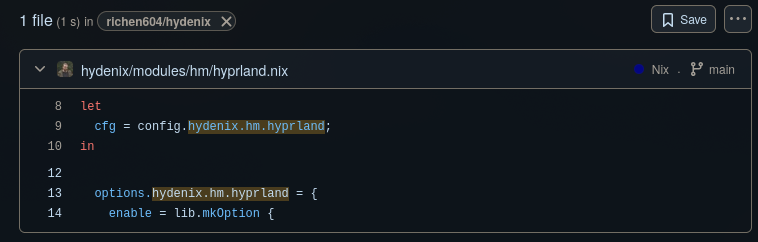
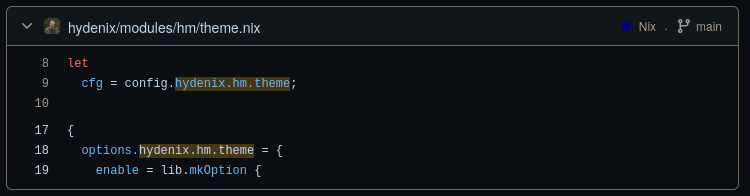
docs: options.md use hydenix.hm.theme example

diff --git a/template/docs/options.md b/template/docs/options.md
@@ -1,4 +1,3 @@
-
 <img align="right" width="75px" alt="NixOS" src="https://github.com/HyDE-Project/HyDE/blob/master/Source/assets/nixos.png?raw=true"/>
 
 # hydenix options
@@ -11,10 +10,10 @@
 ## module documentation
 
 going to let you in on a secret: the nix options system *is* the documentation.\
-let's walk through an example. say you want to find info about `hydenix.hm.hyprland`.\
+let's walk through an example. say you want to find info about `hydenix.hm.theme`.\
 the easiest way is to search the github repo for the options:
 
-[search for `hydenix.hm.hyprland`](https://github.com/richen604/hydenix/search?q=hydenix.hm.hyprland)
+[search for `hydenix.hm.theme`](https://github.com/richen604/hydenix/search?q=hydenix.hm.theme)
 
 you'll see the options in the search results, something like this:
 
@@ -23,29 +22,35 @@ you'll see the options in the search results, something like this:
 click on the file to see the actual options definition, which looks something like this:
 
 ```nix
-  options.hydenix.hm.hyprland = {
+  options.hydenix.hm.theme = {
     enable = lib.mkOption {
       type = lib.types.bool;
       default = config.hydenix.hm.enable;
-      description = "Enable hyprland module";
+      description = "Enable theme module";
     };
 
-    extraConfig = lib.mkOption {
-      type = lib.types.lines;
-      default = "";
-      description = "Extra config for hyprland";
+    active = lib.mkOption {
+      type = lib.types.str;
+      default = "Catppuccin Mocha";
+      description = "Active theme name";
+    };
+
+    themes = lib.mkOption {
+      type = lib.types.listOf lib.types.str;
+      default = [
+        "Catppuccin Mocha"
+        "Catppuccin Latte"
+      ];
+      description = "Available theme names";
     };
   };
 ```
 
-notice that `extraConfig` has type `lines`, which means it accepts multiline strings.
+notice that `active` has type `str`, which means it accepts a string.
 so you'd configure it like this:
 
 ```nix
-hydenix.hm.hyprland.extraConfig = ''
-  # hyprland.conf
-  windowrule = float, ^(.*)
-''
+hydenix.hm.theme.active = "Catppuccin Mocha";
 ```
 
 you can find the full list of option types in the [nixos manual](https://nlewo.github.io/nixos-manual-sphinx/development/option-types.xml.html).
